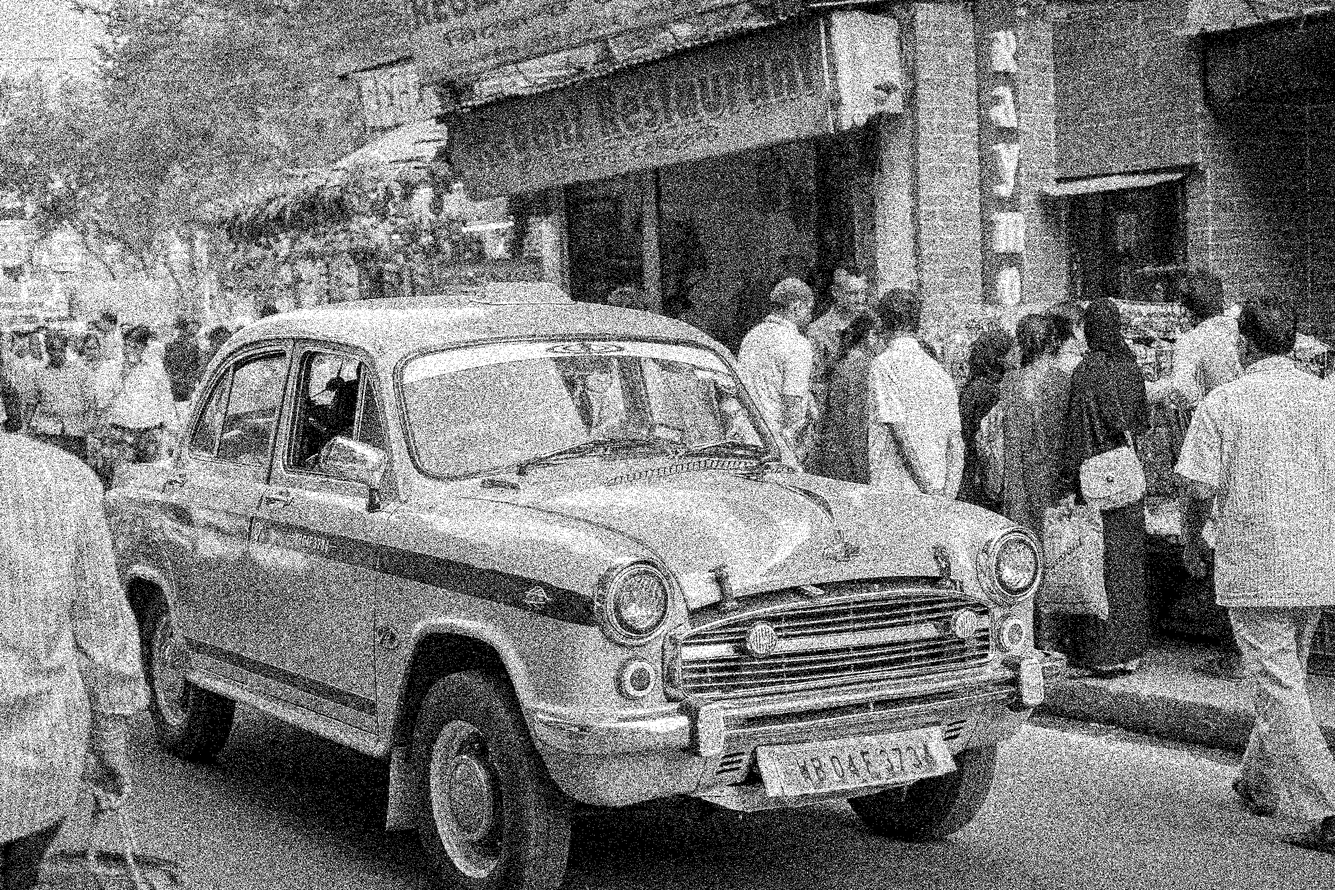
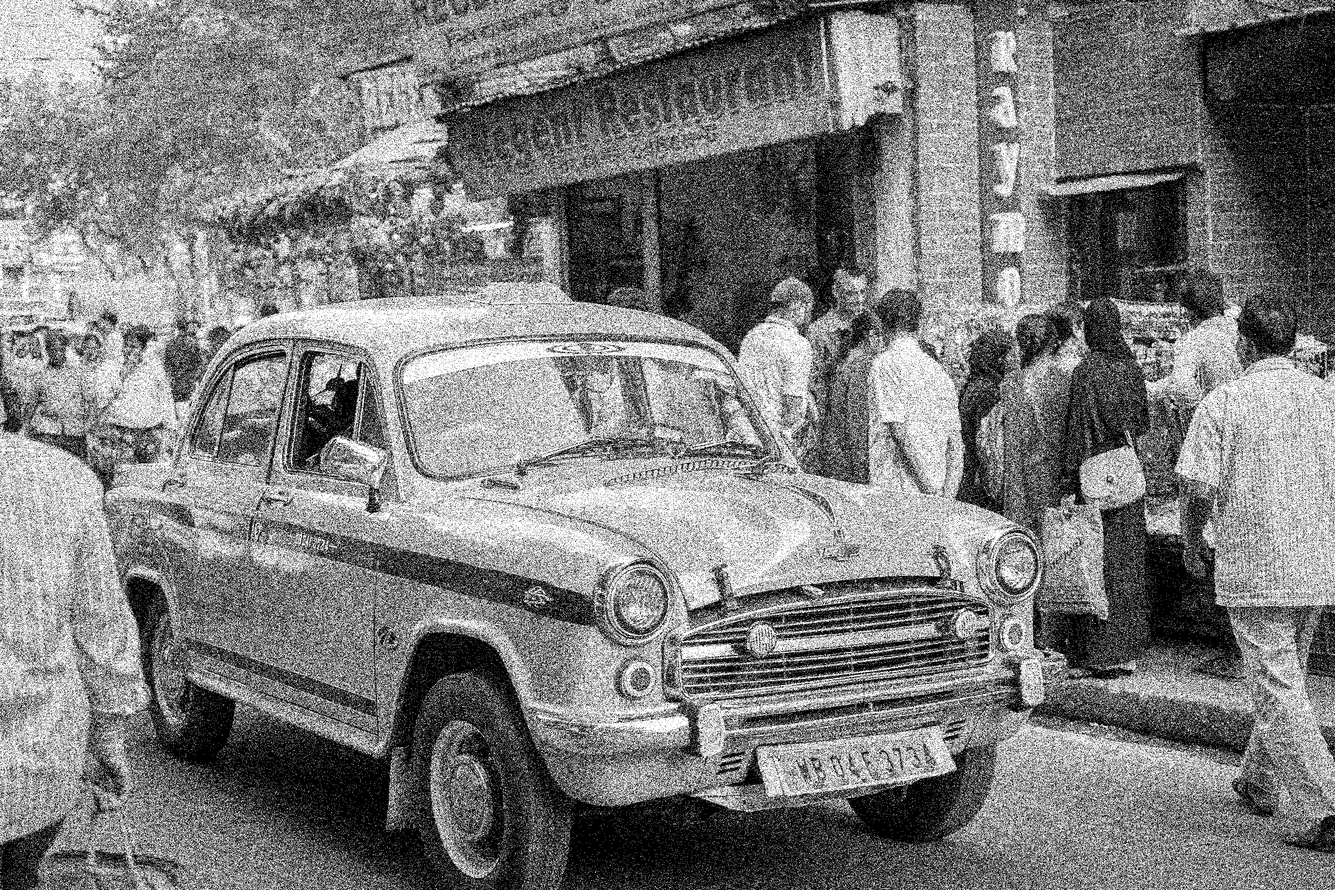
added the neccessary changes

diff --git a/stipple.py b/stipple.py
@@ -2,10 +2,8 @@
 import argparse
 import PIL
 import random
-from PIL import Image
-from PIL import ImageColor
+from PIL import Image,ImageColor
 import math
-import cv2
 
 # construct the argument parse and parse the arguments
 ap = argparse.ArgumentParser()
@@ -17,17 +15,19 @@ img = Image.open(args['image'])
 img = img.convert('LA')
 
 width, height = img.size
+# here we are converting the image to the greyscale form('L') with an alpha ('A') transparency
 imgNew = Image.new('LA', (width, height))
 
-print('generating...')
 # here performing the operation where we are randomly selecting the pixel and adding the effect.
 for x in range(width):
     for y in range(height):
+        # here we extract the pixel value of the image.
         point = img.getpixel( (x,y) )[0]
+        # generating a random value
         randNum = random.randint(0, 260)
+        # condition for manipulating the particular pixels value.
         if randNum >= point:
+            # changing the value of the pixel.
             imgNew.putpixel( (x,y), (0, 255))
             
-            
-
 imgNew.save('assets/Stippled.png')
